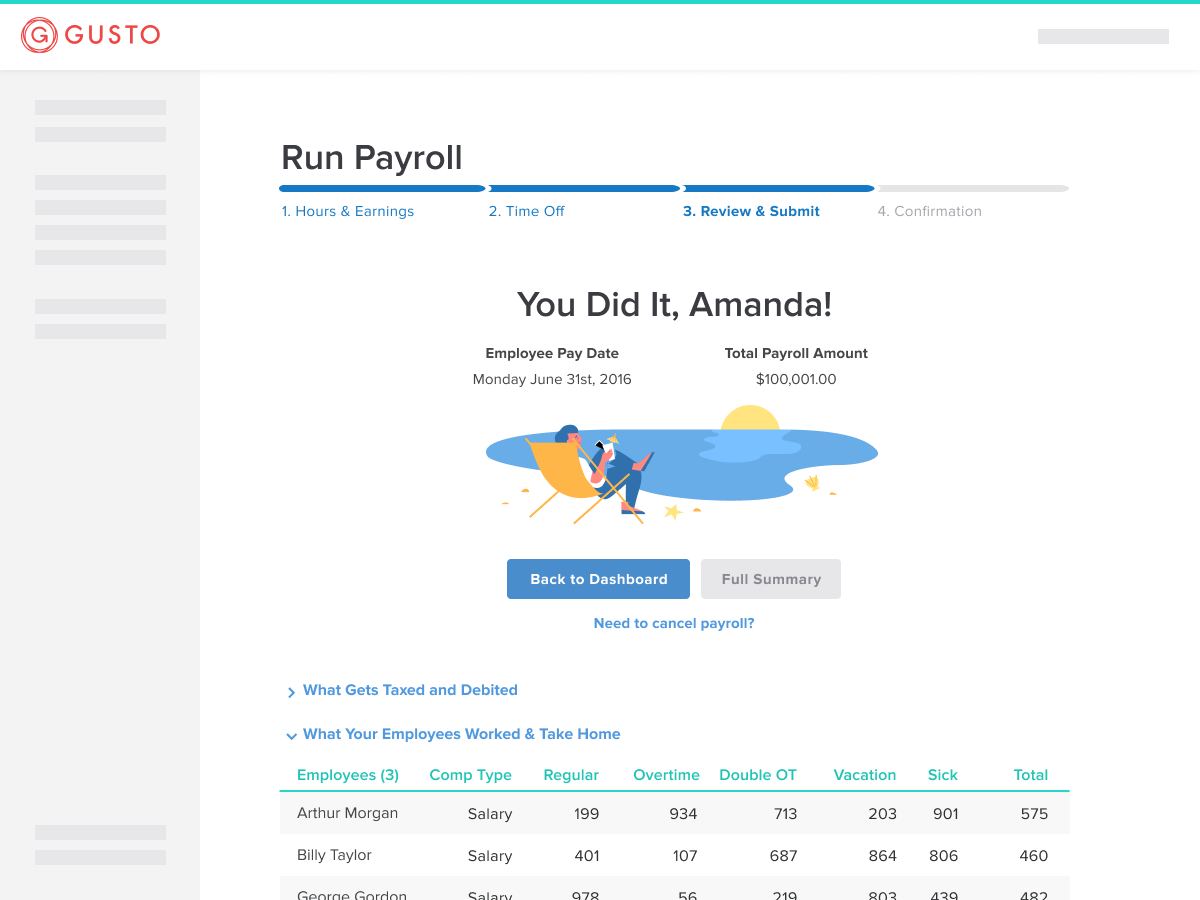
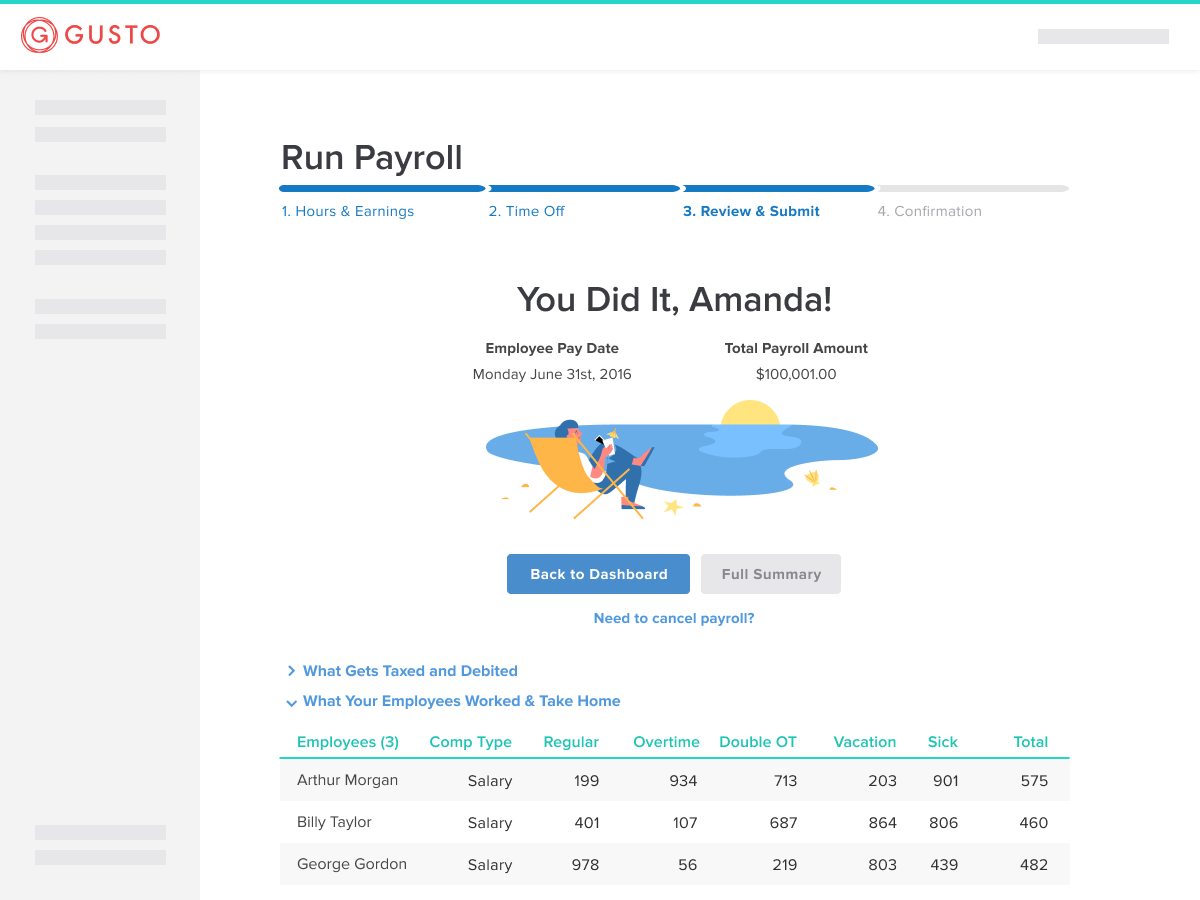
added more details

diff --git a/build/index.html b/build/index.html
@@ -1,1 +1,1 @@
-<!doctype html><html lang="en"><head><meta charset="utf-8"/><link rel="shortcut icon" href="/favicon/favicon.ico"/><meta name="viewport" content="width=device-width,initial-scale=1"/><meta name="theme-color" content="#000000"/><link rel="manifest" href="/manifest.json"/><title>Made by Dora Chan</title><link href="/static/css/main.66f630aa.chunk.css" rel="stylesheet"></head><body><noscript>You need to enable JavaScript to run this app.</noscript><div id="root"></div><script>!function(l){function e(e){for(var r,t,n=e[0],o=e[1],u=e[2],f=0,i=[];f<n.length;f++)t=n[f],p[t]&&i.push(p[t][0]),p[t]=0;for(r in o)Object.prototype.hasOwnProperty.call(o,r)&&(l[r]=o[r]);for(s&&s(e);i.length;)i.shift()();return c.push.apply(c,u||[]),a()}function a(){for(var e,r=0;r<c.length;r++){for(var t=c[r],n=!0,o=1;o<t.length;o++){var u=t[o];0!==p[u]&&(n=!1)}n&&(c.splice(r--,1),e=f(f.s=t[0]))}return e}var t={},p={1:0},c=[];function f(e){if(t[e])return t[e].exports;var r=t[e]={i:e,l:!1,exports:{}};return l[e].call(r.exports,r,r.exports,f),r.l=!0,r.exports}f.m=l,f.c=t,f.d=function(e,r,t){f.o(e,r)||Object.defineProperty(e,r,{enumerable:!0,get:t})},f.r=function(e){"undefined"!=typeof Symbol&&Symbol.toStringTag&&Object.defineProperty(e,Symbol.toStringTag,{value:"Module"}),Object.defineProperty(e,"__esModule",{value:!0})},f.t=function(r,e){if(1&e&&(r=f(r)),8&e)return r;if(4&e&&"object"==typeof r&&r&&r.__esModule)return r;var t=Object.create(null);if(f.r(t),Object.defineProperty(t,"default",{enumerable:!0,value:r}),2&e&&"string"!=typeof r)for(var n in r)f.d(t,n,function(e){return r[e]}.bind(null,n));return t},f.n=function(e){var r=e&&e.__esModule?function(){return e.default}:function(){return e};return f.d(r,"a",r),r},f.o=function(e,r){return Object.prototype.hasOwnProperty.call(e,r)},f.p="/";var r=window.webpackJsonp=window.webpackJsonp||[],n=r.push.bind(r);r.push=e,r=r.slice();for(var o=0;o<r.length;o++)e(r[o]);var s=n;a()}([])</script><script src="/static/js/2.04aa03f5.chunk.js"></script><script src="/static/js/main.4714d2cb.chunk.js"></script></body></html>
+<!doctype html><html lang="en"><head><meta charset="utf-8"/><link rel="shortcut icon" href="/favicon/favicon.ico"/><meta name="viewport" content="width=device-width,initial-scale=1"/><meta name="theme-color" content="#000000"/><link rel="manifest" href="/manifest.json"/><title>Made by Dora Chan</title><link href="/static/css/main.66f630aa.chunk.css" rel="stylesheet"></head><body><noscript>You need to enable JavaScript to run this app.</noscript><div id="root"></div><script>!function(l){function e(e){for(var r,t,n=e[0],o=e[1],u=e[2],f=0,i=[];f<n.length;f++)t=n[f],p[t]&&i.push(p[t][0]),p[t]=0;for(r in o)Object.prototype.hasOwnProperty.call(o,r)&&(l[r]=o[r]);for(s&&s(e);i.length;)i.shift()();return c.push.apply(c,u||[]),a()}function a(){for(var e,r=0;r<c.length;r++){for(var t=c[r],n=!0,o=1;o<t.length;o++){var u=t[o];0!==p[u]&&(n=!1)}n&&(c.splice(r--,1),e=f(f.s=t[0]))}return e}var t={},p={1:0},c=[];function f(e){if(t[e])return t[e].exports;var r=t[e]={i:e,l:!1,exports:{}};return l[e].call(r.exports,r,r.exports,f),r.l=!0,r.exports}f.m=l,f.c=t,f.d=function(e,r,t){f.o(e,r)||Object.defineProperty(e,r,{enumerable:!0,get:t})},f.r=function(e){"undefined"!=typeof Symbol&&Symbol.toStringTag&&Object.defineProperty(e,Symbol.toStringTag,{value:"Module"}),Object.defineProperty(e,"__esModule",{value:!0})},f.t=function(r,e){if(1&e&&(r=f(r)),8&e)return r;if(4&e&&"object"==typeof r&&r&&r.__esModule)return r;var t=Object.create(null);if(f.r(t),Object.defineProperty(t,"default",{enumerable:!0,value:r}),2&e&&"string"!=typeof r)for(var n in r)f.d(t,n,function(e){return r[e]}.bind(null,n));return t},f.n=function(e){var r=e&&e.__esModule?function(){return e.default}:function(){return e};return f.d(r,"a",r),r},f.o=function(e,r){return Object.prototype.hasOwnProperty.call(e,r)},f.p="/";var r=window.webpackJsonp=window.webpackJsonp||[],n=r.push.bind(r);r.push=e,r=r.slice();for(var o=0;o<r.length;o++)e(r[o]);var s=n;a()}([])</script><script src="/static/js/2.04aa03f5.chunk.js"></script><script src="/static/js/main.e343f771.chunk.js"></script></body></html>

diff --git a/src/components/_work/project_onboarding.js b/src/components/_work/project_onboarding.js
@@ -24,10 +24,10 @@ class Onboarding extends Component {
         handleClose={ this.props.closeModal }
         path='/project_chat'>
         <Modal.Detail subtitle='Context'>
-          Gusto was originally ZenPayroll, a startup with an onboarding experience designed for those who were already sold on payroll. It had been years since this flow was touched. With the widening user base, it became a major strain to the funnel of customers coming in who simply wanted to browse the product. The goal was to introduce the brand while progressively demonstrating value and building trust. NBD. While this was the primary goal, I had a secondary goal of reducing the need for manual data entry. Integrations introduced an opportunity for automation, and increased probability of feature adoption.
+          Gusto, formerly ZenPayroll, was a startup with an onboarding experience designed for those who were already sold on payroll. It had been years since this flow was touched. With the widening user base, it became a major strain to the funnel of customers coming in who simply wanted to browse the product. The goal was to introduce the brand while progressively demonstrating value and building trust. NBD. While this was the primary goal, I had a secondary goal of reducing the need for manual data entry. Integrations introduced an opportunity for automation, and increased probability of feature adoption.
         </Modal.Detail>
         <Modal.Detail subtitle='Design'>
-          This was one of the largest projects I've completed at Gusto. It required major collaboration with multiple internal teams, including growth, risk, engineering, and more. Onboarding required research on multiple fronts since it heavily touched entry points at the landing page, pricing, navigation, dashboard and promotional content. With the massive scope of this project, it was necessary to break it down by phases.
+          This was one of the largest projects I've completed at Gusto. It required major collaboration with multiple internal teams, including growth, risk, engineering, and more. Onboarding required research on multiple fronts since it heavily touched entry points at the landing page, pricing, navigation, dashboard and promotional content. The full requirements for being ready to run the first payroll were steep. It asked for business registration from Federal, state and local agencies, liability signoffs, paystub history, each team member's details including personal information, compensation, withholding preferences, contacts, and more. According to the teams focused on migration, it could take up to a week or more to fully onboard. This project broke the onboarding requirements down into contextual, educational stages that would be more digestable for the user. With the massive scope of this project, it was necessary to break it down by phases and slow rollouts.
         </Modal.Detail>
         <Modal.Gallery columns={ 2 }>
           <Image imgSrc={ Onboarding1 } />

diff --git a/src/components/_work/project_public_web.js b/src/components/_work/project_public_web.js
@@ -12,10 +12,10 @@ class PublicWeb extends Component {
         handleClose={ this.props.closeModal }
         path='/project_timecard_integrations'>
         <Modal.Detail subtitle='Context'>
-          I typically work on more product-related projects for our quarterly hackweek, but this time around I was prompted to work on a public web project.
+          This was a hackweek project that was one of the finalists in a mini design-off, which attempted to reimagine how we would better reflect our growing suite of products without conflicting with the larger Square navigation. This becomes challenging when Square itself already offers an ever expanding mega suite of products.
         </Modal.Detail>
         <Modal.Detail subtitle='Design'>
-          With a blank slate and new suite of products, I wanted to develop a compelling story that would focus on the user and his or her business. The who, what, when, where, why and how was a fundamental framework. After sketching out wireframes and a parti, each section was defined. The business owner was 'the who', the integrated features were 'the what', the day-to-day and year-end were 'the when', the mobile management from anywhere was the 'where', the emphasis on the team dynamics were 'the why' and the pricing and CTA were 'the how'. It was important for any business owner to be able to envision themselves in the same place.
+          With a blank slate and new suite of products, I wanted to provide a compelling story that would focus on the user and his or her business. The who, what, when, where, why and how was a fundamental framework. After sketching out wireframes and drafting a parti, each section was defined. The business owner was 'the who', the integrated features were 'the what', the day-to-day and year-end were 'the when', the mobile management from anywhere was the 'where', the emphasis on the team dynamics were 'the why' and the pricing and CTA were 'the how'. It was important for any business owner to be able to envision themselves in the same place. The template could be applied to other industries such as restaurants, retail stores, etc. with their very own testimonials.
         </Modal.Detail>
         <Modal.Gallery columns={ 1 }>
           <Image imgSrc={ PublicWebImage } />

diff --git a/src/components/_work/project_guide.js b/src/components/_work/project_guide.js
@@ -19,10 +19,10 @@ class Guide extends Component {
         handleClose={ this.props.closeModal }
         path='/project_garnishments'>
         <Modal.Detail subtitle='Context'>
-          With the rapid growth and rebranding of the company, large inconsistencies were developing between teams. There was uncertainty about what UI components, UX paradigms, and assets were available to product and marketing. Undocumented, tribal knowledge became the norm.
+          With the rapid growth and rebranding of the company, large inconsistencies were developing between teams. There was uncertainty about what UI components, UX paradigms, and assets were available to product and marketing. Undocumented, tribal knowledge became the norm. I knew without addressing the issue, the cohesion of the product would spiral out of control.
         </Modal.Detail>
         <Modal.Detail subtitle='Design'>
-          The motivation was to fill these knowledge gaps for a majority of the teams including designers, developers, product managers, marketing, and sales. I wanted to create a long term solution that would constantly reflect the evolving state of the company.This became a two part project, where part one required the migration of our basic UI codebase to a component-library (consumed by both product and the guide as a node module). Part two was preparing the guide itself as a visual repository for documentation and testing ground for modularizing the UI.
+          The motivation behind this project was to fill these knowledge gaps for a majority of the teams including designers, developers, product managers, marketing, and sales. I wanted to create a long term solution that would constantly reflect the evolving state of the company.This became a two part project, where part one required the migration of our basic UI codebase to a component-library (consumed by both product and the guide as a node module). Part two was preparing the guide itself as a visual repository for documentation and testing ground for modularizing the UI. It continues to be used as a main resource for product development today.
         </Modal.Detail>
         <Modal.Gallery columns={ 2 }>
           <Image imgSrc={ Guide1 } />

diff --git a/src/components/_work/project_square_design_summit.js b/src/components/_work/project_square_design_summit.js
@@ -16,7 +16,7 @@ class SquareDesignSummit extends Component {
           With so many products offered at Square, the design teams are divided where it's easy to lose track of new hires and ongoing projects. In an effort to organize and establish a stronger tie between the different design teams, workstreams were created to focus on specific agendas such as branding, onboarding, tooling, etc. I was part of the Conferences and Training workstream which outlined how to attend events and obtain educational training. With two other designers, we launched a plan for our own internal design summit. It will be the first official design event that has ever been planned at Square, with over 100 RSVPs. Even Jack Dorsey will be there as our keynote speaker. Many will be flying into San Francisco HQ from other Square offices.
         </Modal.Detail>
         <Modal.Detail subtitle='Design'>
-          While the others focused on budgeting and logistics, I worked on the schedule, design and development of the website. Since this is an internal event, it was easy to link to internal references such as the company directory and private Google Docs. A few things I built early on was a call for speakers and survey asking about what people were interested in learning about. 
+          While the others focused on budgeting and logistics, I worked on the schedule, design and development of the website. Since this is an internal event, it was easy to link to internal references such as the company directory and private Google Docs. A few things I built early on was a call for speakers and survey asking about what people were interested in learning about. Afterwards, I updated the site to include form submissions, speaker profiles, a schedule, talk details, participation suggestions and resources for the uncertain. It's currently live and being used as an open source template for other summits within the company. 
         </Modal.Detail>
         <Modal.Gallery columns={ 1 }>
           <Image imgSrc={ SquareSummit1 } />

diff --git a/src/components/_work/project_payroll_review.js b/src/components/_work/project_payroll_review.js
@@ -15,10 +15,10 @@ class PayrollReview extends Component {
         handleClose={ this.props.closeModal }
         path='/project_dashboard'>
         <Modal.Detail subtitle='Context'>
-          When I first joined Zenpayroll / Gusto, the workflow for running payroll was abrupt. It jumped from entering values to a payment confirmation without warning. It created lots of cancelled payrolls due to the inability to check the final result of their inputs.
+          When I first joined Gusto, formerly ZenPayroll, the workflow for running payroll was abrupt. It jumped from entering values to a confirmation without warning. It created lots of cancelled payrolls and off-cycle runs due to the inability to check the final result of their inputs. It would be the equivalent of adding items to a cart and not being able to preview your cart unless you wanted an automatic checkout.
         </Modal.Detail>
         <Modal.Detail subtitle='Design'>
-          TBD
+          Working with another backend engineer, we worked on a preview of payroll before it gets sent out. This required a lot of user testing, especially for those who had grown accustomed to the abrupt confirmation. We wanted to ensure people would get through the extended flow as well as acknowledge the scheduled withdrawals from their bank account. The header was critical for the preview in this case, where we had to eliminate any use of the term 'Summary'. That signaled it was complete in the user's mind, even if it wasn't. The most effective message was 'A Quick Preview Before You Submit'. In addition to this improvement, we added clarity to the breakdowns by moving them into collapsable dropdowns for what gets taxed and debited, what employees worked and take home and what the company pays.
         </Modal.Detail>
         <Modal.Gallery columns={ 2 }>
           <Image imgSrc={ PayrollReview1 } />

diff --git a/src/components/_work/project_benefits.js b/src/components/_work/project_benefits.js
@@ -18,7 +18,7 @@ class Benefits extends Component {
           A major component to HR management for any business is benefits. It's one of the key differences between having employees v. contractors. Types of benefits include health insurance, paid time off, retirement, disability insurance, HSA, FSA, etc. These are typically paid out through payroll, with payments made either annually, monthly or per pay cycle. With the ability to integrate benefit contributions and deductions, Square wanted to encourage business owners to offer their employees perks.
         </Modal.Detail>
         <Modal.Detail subtitle='Design'>
-          According to research, offering benefits would help bolster employee retention, attract talent, increase focus and attendance. Promoting this within the payroll product would both educate and provide a path of compliance for business owners, whether that be through the Affordable Care Act (ACA) or workers' compensation. We needed to set up a store of benefits, with detailed plans and resources per benefit. Working with partners such as SimplyInsured, Guideline and AP Intego, we were able to begin offering these plans with automatic integrations. 
+          According to research, offering benefits would help bolster employee retention, attract talent, increase focus and attendance. Promoting this within the payroll product would both educate and provide a path of compliance for business owners, whether that be through the Affordable Care Act (ACA) or workers' compensation. We needed to set up a store of benefits, with detailed plans and resources per benefit. Working with partners such as SimplyInsured, Guideline and AP Intego, we were able to begin offering these plans with automatic integrations.
         </Modal.Detail>
         <Modal.Gallery columns={ 2 }>
           <Image imgSrc={ Benefits1 } />

diff --git a/src/components/_work/project_garnishments.js b/src/components/_work/project_garnishments.js
@@ -17,7 +17,7 @@ class Garnishments extends Component {
         handleClose={ this.props.closeModal }
         path='/project_payroll_review'>
         <Modal.Detail subtitle='Context'>
-          Every pay period, employers and accountants waste a lot of time sending out payments to different state agencies on behalf of their employees. Amounts are garnished from every paycheck and sent out manually. Some of the most common garnishments are due to child support, students loans and tax liens. As federally mandated payments, failure to comply can lead to substantial penalties.
+          Every pay period, employers and accountants waste a lot of time sending out payments to different state agencies on behalf of their employees. Amounts are garnished from every paycheck and sent out manually by check. Some of the most common garnishments are due to child support, students loans and tax liens. As federally mandated payments, failure to comply can lead to substantial fines and penalties.
         </Modal.Detail>
         <Modal.Detail subtitle='Design'>
           We wanted to give time back to the employer and accountant. To set this up, all they needed to do was collect and enter the details of each employee court order. Depending on the garnishment type and minimum, a fixed dollar amount or percentage of earnings would be set as a recurring deduction from the employees' total wages. Every time payroll would be run, electronic payments would be sent to corresponding state agencies or checks would be sent out in batches. Employers and accountants noted this would save 5-10 minutes for every garnished employee, at every pay run.

diff --git a/src/components/_work/project_year_end.js b/src/components/_work/project_year_end.js
@@ -15,10 +15,10 @@ class YearEnd extends Component {
         handleClose={ this.props.closeModal }
         path='/project_mobile_app'>
         <Modal.Detail subtitle='Context'>
-          At the end of every year, businesses are tasked with wrapping up their financial year. This means they need to generate reports, reconcile, and
+          At the end of every year, business owners are tasked with wrapping up their financial year. This means they need to generate reports, reconcile costs, and resolve any tax liabilities. The rush is generally between December and February depending on state. This is also when W-2s and 1099's are distributed to employees and contractors. Ensuring their records are up to date can be a major hassel.
         </Modal.Detail>
         <Modal.Detail subtitle='Design'>
-          In an effort to reduce the number of customer support calls,
+          In an effort to relieve pressure for all parties involved and curtail the influx of customer support calls at the end of the year, we pushed a year end timeline and guide out to all business owners, with SMS notifcations for employees and contractors to update their personal information. In product, the timeline provided smart dates, customized to each business owner. The downloadable/printable guide itself had a checklist, generic timeline, new feature list, FAQ and referral page. This reduced the number of inquiries about important dates, and helped us scale for future year end needs. 
         </Modal.Detail>
         <Modal.Gallery columns={ 2 }>
           <Image imgSrc={ YearEnd1 } />

diff --git a/build/service-worker.js b/build/service-worker.js
@@ -14,7 +14,7 @@
 importScripts("https://storage.googleapis.com/workbox-cdn/releases/4.3.1/workbox-sw.js");
 
 importScripts(
-  "/precache-manifest.290b063fd1301f1342637ee5f77bbe66.js"
+  "/precache-manifest.bac6352750d9132f9e2a7ab2b7cbbc1c.js"
 );
 
 self.addEventListener('message', (event) => {
